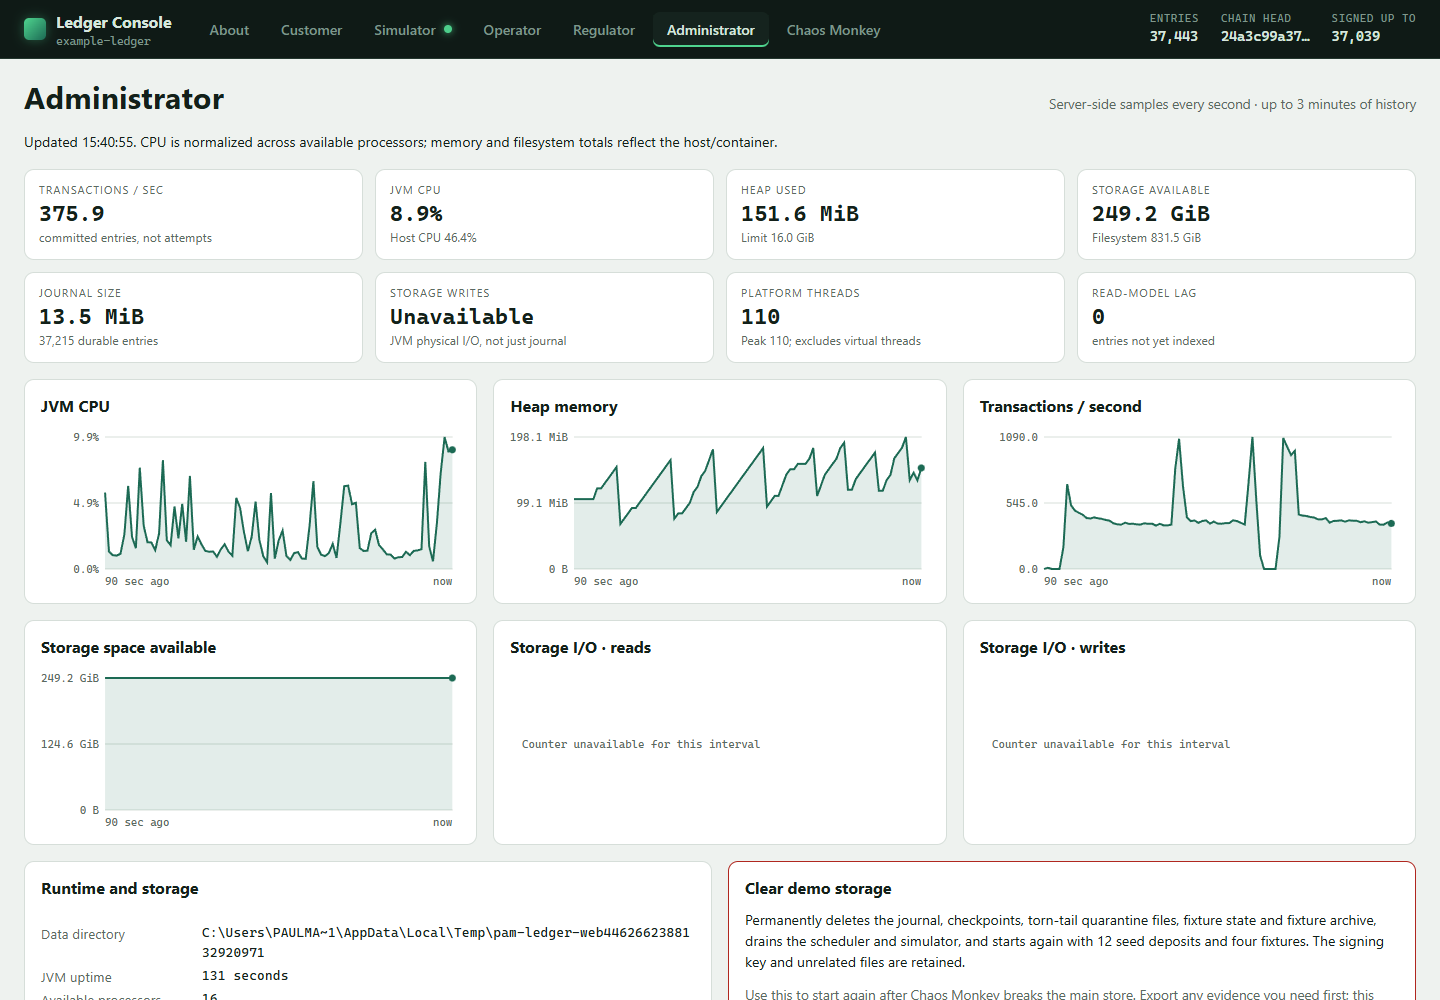
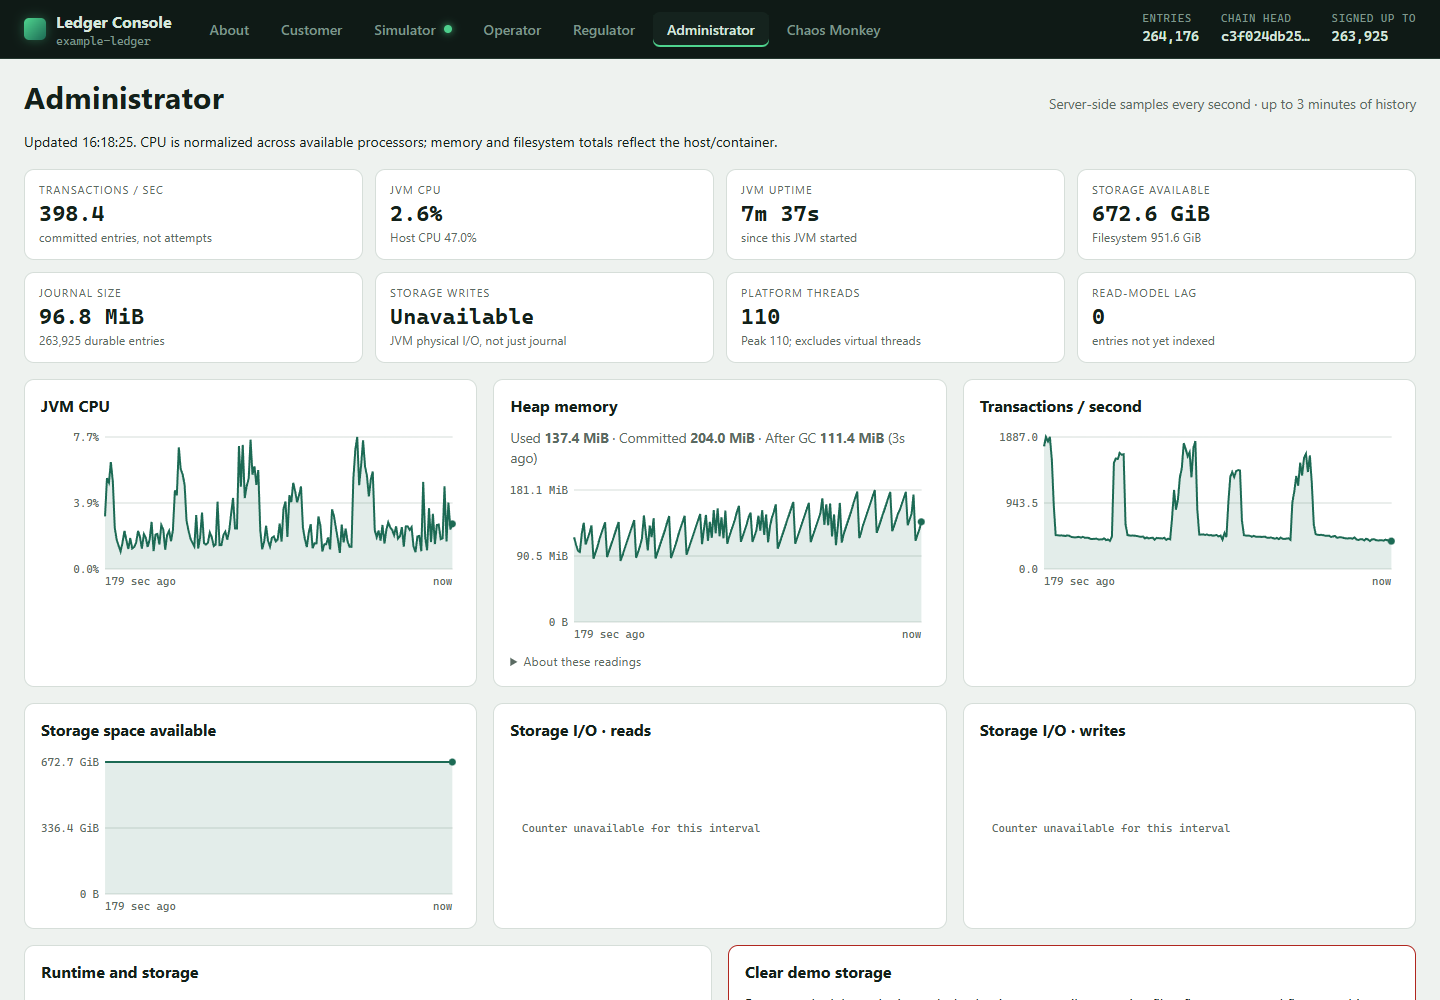
Clarify heap telemetry and format JVM uptime
Distinguish used and committed heap from the latest completed GC snapshot without forcing collections. Keep all heap readings within one existing chart, preserve the eight-tile dashboard and display uptime to the second in readable units. Update regressions, guide, deployment notes and the Administrator screenshot.

diff --git a/src/main/kotlin/com/pam/ledger/web/Performance.kt b/src/main/kotlin/com/pam/ledger/web/Performance.kt
@@ -1,20 +1,30 @@
 package com.pam.ledger.web
 
 import com.pam.ledger.Ledger
+import com.sun.management.GarbageCollectorMXBean
 import com.sun.management.OperatingSystemMXBean
 import java.lang.management.ManagementFactory
+import java.lang.management.MemoryType
+import java.lang.management.MemoryUsage
 import java.nio.file.Files
 import java.nio.file.Path
 import java.util.concurrent.Executors
 import java.util.concurrent.TimeUnit
 
+internal fun heapUsedAfterGc(usages: Map<String, MemoryUsage>, heapPools: Set<String>): Long? =
+    if (heapPools.isEmpty() || !usages.keys.containsAll(heapPools)) null
+    else heapPools.sumOf { usages.getValue(it).used }
+
 /** Read-only host/JVM telemetry. Unsupported platform counters are null, never invented zeros. */
 class Performance(private val ledger: Ledger, private val readModel: ReadModel, private val directory: Path) : AutoCloseable {
+    private data class HeapCollection(val used: Long, val endTime: Long, val collector: String)
     private val os = ManagementFactory.getOperatingSystemMXBean()
     private val memory = ManagementFactory.getMemoryMXBean()
     private val threads = ManagementFactory.getThreadMXBean()
     private val runtime = ManagementFactory.getRuntimeMXBean()
     private val collectors = ManagementFactory.getGarbageCollectorMXBeans()
+    private val heapPools = ManagementFactory.getMemoryPoolMXBeans()
+        .filter { it.type == MemoryType.HEAP }.map { it.name }.toSet()
     private val points = ArrayDeque<Map<String, Any?>>()
     private val sampler = Executors.newSingleThreadScheduledExecutor { r ->
         Thread(r, "administrator-stats").apply { isDaemon = true }
@@ -61,6 +71,13 @@ class Performance(private val ledger: Ledger, private val readModel: ReadModel, 
         }
         val bean = os as? OperatingSystemMXBean
         val heap = memory.heapMemoryUsage
+        val lastGc = collectors.mapNotNull { collector ->
+            (collector as? GarbageCollectorMXBean)?.lastGcInfo?.let { collector.name to it }
+        }.maxByOrNull { it.second.endTime }
+        val afterGc = lastGc?.let { (collector, info) ->
+            heapUsedAfterGc(info.memoryUsageAfterGc, heapPools)?.let { HeapCollection(it, info.endTime, collector) }
+        }
+        val uptime = runtime.uptime
         val store = Files.getFileStore(directory)
         val journalBytes = listOf(Ledger.ENTRIES_FILE, Ledger.CHECKPOINTS_FILE).sumOf {
             Files.size(directory.resolve(it))
@@ -72,6 +89,9 @@ class Performance(private val ledger: Ledger, private val readModel: ReadModel, 
             "systemCpu" to bean?.cpuLoad?.takeIf { it >= 0 }?.times(100),
             "heapUsed" to heap.used, "heapCommitted" to heap.committed,
             "heapMax" to heap.max.takeIf { it >= 0 },
+            "heapAfterGc" to afterGc?.used,
+            "heapAfterGcAgeMillis" to afterGc?.let { uptime - it.endTime },
+            "heapAfterGcCollector" to afterGc?.collector,
             "nonHeapUsed" to memory.nonHeapMemoryUsage.used,
             "systemMemoryTotal" to bean?.totalMemorySize?.takeIf { it >= 0 },
             "systemMemoryFree" to bean?.freeMemorySize?.takeIf { it >= 0 },
@@ -81,7 +101,7 @@ class Performance(private val ledger: Ledger, private val readModel: ReadModel, 
             "threads" to threads.threadCount, "peakThreads" to threads.peakThreadCount,
             "gcCount" to collectors.map { it.collectionCount }.takeIf { counts -> counts.all { it >= 0 } }?.sum(),
             "gcMillis" to collectors.map { it.collectionTime }.takeIf { times -> times.all { it >= 0 } }?.sum(),
-            "uptimeMillis" to runtime.uptime, "processors" to os.availableProcessors,
+            "uptimeMillis" to uptime, "processors" to os.availableProcessors,
             "loadAverage" to os.systemLoadAverage.takeIf { it >= 0 },
             "readModelLag" to (entries - readModel.totals().entries).coerceAtLeast(0),
         )

diff --git a/src/main/resources/web/app.js b/src/main/resources/web/app.js
@@ -1289,6 +1289,17 @@ const bytesText = value => {
   return `${n.toFixed(unit ? 1 : 0)} ${units[unit]}`;
 };
 const percentText = value => value == null ? "Unavailable" : `${value.toFixed(1)}%`;
+function durationText(value) {
+  if (value == null) return "Unavailable";
+  const seconds = Math.floor(value / 1000), minutes = Math.floor(seconds / 60) % 60;
+  const hours = Math.floor(seconds / 3600) % 24, days = Math.floor(seconds / 86400);
+  return [
+    days ? `${days}d` : null,
+    days || hours ? `${hours}h` : null,
+    days || hours || minutes ? `${minutes}m` : null,
+    `${seconds % 60}s`,
+  ].filter(part => part != null).join(" ");
+}
 let stopAdmin = null;
 async function refreshAdmin() {
   try {
@@ -1311,7 +1322,7 @@ async function refreshAdmin() {
     $("adminKpis").innerHTML = [
       kpi("Transactions / sec", last.tps.toFixed(1), "committed entries, not attempts"),
       kpi("JVM CPU", percentText(last.processCpu), `Host CPU ${percentText(last.systemCpu)}`),
-      kpi("Heap used", bytesText(last.heapUsed), `Limit ${bytesText(last.heapMax)}`),
+      kpi("JVM uptime", durationText(last.uptimeMillis), "since this JVM started"),
       kpi("Storage available", bytesText(last.storageFree), `Filesystem ${bytesText(last.storageTotal)}`),
       kpi("Journal size", bytesText(last.journalBytes), `${int.format(last.entries)} durable entries`),
       kpi("Storage writes", last.writeBytesPerSec == null ? "Unavailable" : bytesText(last.writeBytesPerSec) + "/s", "JVM physical I/O, not just journal"),
@@ -1331,6 +1342,13 @@ async function refreshAdmin() {
     };
     chart("adminCpu", "processCpu", percentText);
     chart("adminHeap", "heapUsed", bytesText);
+    $("adminHeapSummary").innerHTML =
+      `Used <b>${esc(bytesText(last.heapUsed))}</b> · Committed <b>${esc(bytesText(last.heapCommitted))}</b> · ` +
+      `After GC <b>${esc(bytesText(last.heapAfterGc))}</b>` +
+      (last.heapAfterGc == null ? "" : ` (${esc(durationText(last.heapAfterGcAgeMillis))} ago)`);
+    $("adminHeapGc").textContent = last.heapAfterGc == null ? "No completed GC measurement available." :
+      `${last.heapAfterGcCollector} · ${durationText(last.heapAfterGcAgeMillis)} ago`;
+    $("adminHeapLimit").textContent = `Heap limit: ${bytesText(last.heapMax)}.`;
     chart("adminTps", "tps", n => n.toFixed(1));
     chart("adminStorage", "storageFree", bytesText);
     chart("adminRead", "readBytesPerSec", n => bytesText(n) + "/s");
@@ -1338,11 +1356,9 @@ async function refreshAdmin() {
     const detail = (name, value) => `<dt>${esc(name)}</dt><dd>${esc(value)}</dd>`;
     $("adminDetails").innerHTML = [
       detail("Data directory", data.directory),
-      detail("JVM uptime", `${Math.floor(last.uptimeMillis / 1000)} seconds`),
       detail("Available processors", last.processors),
       detail("Host load average", last.loadAverage == null ? "Unavailable" : last.loadAverage.toFixed(2)),
       detail("Host memory free / total", `${bytesText(last.systemMemoryFree)} / ${bytesText(last.systemMemoryTotal)}`),
-      detail("Heap committed", bytesText(last.heapCommitted)),
       detail("Non-heap memory", bytesText(last.nonHeapUsed)),
       detail("Garbage collections", `${last.gcCount ?? "Unavailable"} / ${last.gcMillis ?? "Unavailable"} ms cumulative collection time`),
     ].join("");

diff --git a/src/test/kotlin/com/pam/ledger/WebAppTest.kt b/src/test/kotlin/com/pam/ledger/WebAppTest.kt
@@ -581,12 +581,25 @@ class WebAppTest {
         val (status, body) = response
         assertEquals(200, status, body)
         assertEquals(expectedEntries, entries.findAll(body).last().groupValues[1].toLong(), "no fresh telemetry sample: $body")
-        listOf("processCpu", "systemCpu", "heapUsed", "heapMax", "storageTotal", "storageFree",
+        listOf("processCpu", "systemCpu", "heapUsed", "heapCommitted", "heapMax",
+            "heapAfterGc", "heapAfterGcAgeMillis", "heapAfterGcCollector", "uptimeMillis", "storageTotal", "storageFree",
             "journalBytes", "readBytesPerSec", "writeBytesPerSec", "threads", "gcMillis", "readModelLag").forEach {
             assertTrue(body.contains("\"$it\":"), "missing $it: $body")
         }
         val heap = Regex("\"heapUsed\":(\\d+)").findAll(body).last().groupValues[1].toLong()
         assertTrue(heap > 0)
+        val afterGc = Regex("\"heapAfterGc\":(null|\\d+),\"heapAfterGcAgeMillis\":(null|\\d+),\"heapAfterGcCollector\":(null|\"[^\"]+\")")
+            .findAll(body).toList()
+        assertEquals(entries.findAll(body).count(), afterGc.size, "each sample needs consistent post-GC fields: $body")
+        afterGc.forEach { sample ->
+            if (sample.groupValues[1] == "null") {
+                assertEquals("null", sample.groupValues[2])
+                assertEquals("null", sample.groupValues[3])
+            } else {
+                assertTrue(sample.groupValues[2].toLong() >= 0)
+                assertTrue(sample.groupValues[3] != "null")
+            }
+        }
         val disk = Regex("\"journalBytes\":(\\d+)").findAll(body).last().groupValues[1].toLong()
         assertEquals(Files.size(app.directory.resolve(Ledger.ENTRIES_FILE)) +
             Files.size(app.directory.resolve(Ledger.CHECKPOINTS_FILE)), disk)

diff --git a/src/main/resources/web/index.html b/src/main/resources/web/index.html
@@ -281,7 +281,7 @@
   <div class="kpis" id="adminKpis"></div>
   <div class="grid3" id="adminCharts">
     <div class="panel chart"><h2>JVM CPU</h2><svg id="adminCpu" role="img" aria-label="JVM CPU percentage over time"></svg></div>
-    <div class="panel chart"><h2>Heap memory</h2><svg id="adminHeap" role="img" aria-label="Used heap bytes over time"></svg></div>
+    <div class="panel chart"><h2>Heap memory</h2><p class="hint" id="adminHeapSummary"></p><svg id="adminHeap" role="img" aria-label="Used heap bytes over time, including objects awaiting garbage collection"></svg><details class="heap-help"><summary>About these readings</summary><p class="hint">The chart shows used heap, including uncollected garbage. Committed is capacity held by the JVM, not live objects or total container memory. After GC is occupancy at the last completed collection; young collections can leave old-generation garbage. Measurements never trigger GC.</p><p class="hint" id="adminHeapGc"></p><p class="hint" id="adminHeapLimit"></p></details></div>
     <div class="panel chart"><h2>Transactions / second</h2><svg id="adminTps" role="img" aria-label="Durably committed transactions per second"></svg></div>
     <div class="panel chart"><h2>Storage space available</h2><svg id="adminStorage" role="img" aria-label="Filesystem available bytes over time"></svg></div>
     <div class="panel chart"><h2>Storage I/O · reads</h2><svg id="adminRead" role="img" aria-label="Process physical storage read bytes per second"></svg></div>

diff --git a/src/main/resources/web/app.css b/src/main/resources/web/app.css
@@ -138,6 +138,9 @@ button:disabled { opacity: .45; cursor: default; }
 .kpi span { font-size: .7rem; text-transform: uppercase; letter-spacing: .08em; color: var(--muted); }
 .kpi b { font: 650 1.4rem var(--f-mono); font-variant-numeric: tabular-nums; }
 .kpi small { color: var(--muted); font-size: .76rem; }
+#adminKpis .kpi { min-width: 0; }
+.heap-help { font-size: .78rem; color: var(--muted); }
+.heap-help summary { cursor: pointer; }
 #view-operator .kpi { min-width: 0; gap: 6px; }
 #view-operator .kpi b { font-family: var(--f-ui); font-size: clamp(1.4rem, 2.4vw, 2rem); line-height: 1.15; overflow-wrap: anywhere; letter-spacing: -.035em; }
 .fixture-history summary { cursor: pointer; font-weight: 600; padding: 8px 0; }
@@ -328,6 +331,11 @@ button.danger:hover { background: color-mix(in srgb, var(--bad) 8%, var(--panel)
   .tip { display: none; }
 }
 @media (max-width: 600px) {
+  #adminKpis { gap: 8px; }
+  #adminKpis .kpi { padding: 12px; }
+  #adminKpis .kpi b { font-size: clamp(1rem, 4vw, 1.4rem); overflow-wrap: anywhere; }
+  #adminDetails { grid-template-columns: minmax(0, 1fr); gap: 4px; }
+  #adminDetails dd { word-break: normal; overflow-wrap: anywhere; margin-bottom: 8px; }
   #view-operator .operator-fixtures { grid-template-columns: 1fr; }
   #view-operator .kpis { gap: 8px; }
   #view-operator .kpi { padding: 12px; }

diff --git a/src/test/kotlin/com/pam/ledger/PerformanceTest.kt b/src/test/kotlin/com/pam/ledger/PerformanceTest.kt
@@ -1,0 +1,29 @@
+package com.pam.ledger
+
+import com.pam.ledger.web.heapUsedAfterGc
+import java.lang.management.MemoryUsage
+import kotlin.test.Test
+import kotlin.test.assertEquals
+import kotlin.test.assertNull
+
+class PerformanceTest {
+    private fun usage(used: Long) = MemoryUsage(0, used, used, -1)
+
+    @Test fun `post-GC occupancy sums every heap pool and excludes non-heap pools`() {
+        val pools = mapOf(
+            "eden" to usage(10), "survivor" to usage(20), "old" to usage(300),
+            "metaspace" to usage(900), "code" to usage(800),
+        )
+        assertEquals(330L, heapUsedAfterGc(pools, setOf("eden", "survivor", "old")))
+    }
+
+    @Test fun `missing heap pools are unavailable rather than a partial or zero measurement`() {
+        assertNull(heapUsedAfterGc(mapOf("eden" to usage(10)), setOf("eden", "old")))
+        assertNull(heapUsedAfterGc(emptyMap(), setOf("old")))
+        assertNull(heapUsedAfterGc(mapOf("old" to usage(10)), emptySet()))
+    }
+
+    @Test fun `a measured empty heap is distinct from an unavailable measurement`() {
+        assertEquals(0L, heapUsedAfterGc(mapOf("old" to usage(0)), setOf("old")))
+    }
+}

diff --git a/docs/index.html b/docs/index.html
@@ -570,7 +570,7 @@ footer{margin-top:48px;color:var(--muted);font-size:.84rem}
   <div class="shots">
     <figure class="shot">
       <a href="screenshots/administrator.png"><img src="screenshots/administrator.png" alt="Administrator view: CPU, memory, storage, I/O and transaction throughput charts" loading="lazy"></a>
-      <figcaption><b>Administrator.</b> Live server performance and a protected demo reset.</figcaption>
+      <figcaption><b>Administrator.</b> Live server performance with separate used, committed and after-GC heap readings, collection age, uptime to the second, and a protected demo reset.</figcaption>
     </figure>
     <figure class="shot">
       <a href="screenshots/chaos.png"><img src="screenshots/chaos.png" alt="Chaos Monkey view: live transaction races, main-store faults and recovery results" loading="lazy"></a>

diff --git a/docs/readme.src.html b/docs/readme.src.html
@@ -558,7 +558,7 @@ footer{margin-top:48px;color:var(--muted);font-size:.84rem}
   <div class="shots">
     <figure class="shot">
       <a href="screenshots/administrator.png"><img src="screenshots/administrator.png" alt="Administrator view: CPU, memory, storage, I/O and transaction throughput charts" loading="lazy"></a>
-      <figcaption><b>Administrator.</b> Live server performance and a protected demo reset.</figcaption>
+      <figcaption><b>Administrator.</b> Live server performance with separate used, committed and after-GC heap readings, collection age, uptime to the second, and a protected demo reset.</figcaption>
     </figure>
     <figure class="shot">
       <a href="screenshots/chaos.png"><img src="screenshots/chaos.png" alt="Chaos Monkey view: live transaction races, main-store faults and recovery results" loading="lazy"></a>

diff --git a/src/main/resources/web/about.html b/src/main/resources/web/about.html
@@ -570,7 +570,7 @@ footer{margin-top:48px;color:var(--muted);font-size:.84rem}
   <div class="shots">
     <figure class="shot">
       <a href="screenshots/administrator.png"><img src="screenshots/administrator.png" alt="Administrator view: CPU, memory, storage, I/O and transaction throughput charts" loading="lazy"></a>
-      <figcaption><b>Administrator.</b> Live server performance and a protected demo reset.</figcaption>
+      <figcaption><b>Administrator.</b> Live server performance with separate used, committed and after-GC heap readings, collection age, uptime to the second, and a protected demo reset.</figcaption>
     </figure>
     <figure class="shot">
       <a href="screenshots/chaos.png"><img src="screenshots/chaos.png" alt="Chaos Monkey view: live transaction races, main-store faults and recovery results" loading="lazy"></a>

diff --git a/scripts/capture-screenshots.py b/scripts/capture-screenshots.py
@@ -13,6 +13,7 @@ Use --regulator-only to refresh the reporting screenshots without exercising Cha
 Use --about-only to check the default About view and its embedded interactive guide.
 Use --operator-only to refresh the operator view without exercising Chaos Monkey.
 Use --customer-only to check narrow Customer layouts and refresh their screenshots.
+Use --administrator-only to refresh telemetry and check narrow Administrator layouts.
 
 It drives the real UI: starts the simulator with 500 automated customers, lets traffic
 build up, then photographs each persona's view into docs/screenshots/. WARNING: the
@@ -27,7 +28,7 @@ from playwright.async_api import async_playwright
 ROOT = pathlib.Path(__file__).resolve().parent.parent
 
 
-async def main(url: str, out: pathlib.Path, chrome: str | None, warmup: int, regulator_only: bool = False, about_only: bool = False, operator_only: bool = False, customer_only: bool = False) -> None:
+async def main(url: str, out: pathlib.Path, chrome: str | None, warmup: int, regulator_only: bool = False, about_only: bool = False, operator_only: bool = False, customer_only: bool = False, administrator_only: bool = False) -> None:
     out.mkdir(parents=True, exist_ok=True)
     async with async_playwright() as p:
         launch = {"args": ["--no-sandbox"]}
@@ -52,6 +53,21 @@ async def main(url: str, out: pathlib.Path, chrome: str | None, warmup: int, reg
             """Just one panel, for moments that happen below the fold."""
             await page.locator(selector).screenshot(path=str(out / f"{name}.png"))
             report(name)
+
+        if administrator_only:
+            await page.goto(url + "#administrator")
+            await page.wait_for_selector("#adminKpis .kpi")
+            await page.wait_for_timeout(warmup * 1000)
+            await shot("administrator")
+            for width in [320, 390, 600, 601]:
+                await page.set_viewport_size({"width": width, "height": 1000})
+                await page.wait_for_timeout(300)
+                assert await page.evaluate("document.documentElement.scrollWidth <= innerWidth"), f"Administrator overflow at {width}px"
+                assert await page.locator("#adminHeapSummary").is_visible()
+            await browser.close()
+            if errors:
+                raise SystemExit("page errors while capturing:\n  " + "\n  ".join(errors))
+            return
 
         if not regulator_only and not operator_only and not customer_only:
             await page.goto(url)
@@ -210,5 +226,6 @@ if __name__ == "__main__":
     scope.add_argument("--about-only", action="store_true", help="check and capture About and its embedded guide only")
     scope.add_argument("--operator-only", action="store_true", help="capture the operator view only; skip destructive Chaos Monkey scenarios")
     scope.add_argument("--customer-only", action="store_true", help="check Customer mobile layouts and capture its views only; skip destructive Chaos Monkey scenarios")
+    scope.add_argument("--administrator-only", action="store_true", help="check and capture Administrator telemetry only; skip destructive Chaos Monkey scenarios")
     a = ap.parse_args()
-    asyncio.run(main(a.url.rstrip("/") + "/", pathlib.Path(a.out).resolve(), a.chrome, a.warmup, a.regulator_only, a.about_only, a.operator_only, a.customer_only))
+    asyncio.run(main(a.url.rstrip("/") + "/", pathlib.Path(a.out).resolve(), a.chrome, a.warmup, a.regulator_only, a.about_only, a.operator_only, a.customer_only, a.administrator_only))

diff --git a/deploy/README.md b/deploy/README.md
@@ -125,9 +125,10 @@ later application deployments use the same resources.
   The local Gradle `web` task uses the same heap maximum; leave additional host
   memory for Gradle and the operating system. Ensure the AKS node has room for
   the larger request plus the HTTPS sidecar before deploying.
-  This is headroom, not a bounded-storage design: committed entries, canonical
-  bytes, idempotency keys and dashboard indexes remain resident until reset.
-  The disk high-water mark is not a heap guard. Independent audits retain only
+  This is capacity headroom, not a target live-set size. History and derived
+  indexes are on disk, with bounded caches and a shared run-filter budget;
+  balances and open bets still occupy heap. The disk high-water mark is not a
+  heap guard. Independent audits retain only
   historical hashes, exact account state and idempotency keys, rather than a
   second full decoded journal; audit and snapshot-tamper requests run one at a
   time per app. Large reports and tamper copies still need extra working memory.
@@ -160,20 +161,22 @@ check data compatibility first.
 
 `Java heap space` followed by `LedgerFailedException` means the writer has
 failed-stopped, not that settlement may safely retry writes. Record entry count,
-heap maximum/usage, GC time and container memory from Administrator telemetry.
-At a fixed entry count, rising occupancy between collections can be temporary
-garbage; post-GC live-object counts distinguish this from retained history.
-The live engine keeps every committed entry, and fixture archiving bounds the
-active metadata file, not the heap. A restart must replay and verify the existing
-disk and needs enough heap for that history. Deploy the larger memory budget
-before restarting a full ledger; do not delete journals or signing keys to
-recover. The owner-confirmed Administrator reset remains a demo-only option.
-For a longer-lived service, use an indexed on-disk entry/idempotency store and
-Merkle tiles, or enforce a demo admission budget with reserved settlement/audit
-headroom; neither is implemented by increasing the heap.
+heap used/committed/maximum, after-GC occupancy and collection age, GC time and
+container memory from Administrator telemetry. **Used** includes objects waiting
+for collection. **Committed** is capacity held by the JVM, not live data or total
+container memory; it can remain high after objects are collected. **After GC**
+sums heap pools in the latest completed collector snapshot (excluding non-heap
+pools). Its age and collector name matter: a young collection can leave old-generation
+garbage, so this is not necessarily the full live set. Missing or unsupported
+measurements show as unavailable, not zero. Telemetry never triggers GC or changes
+JVM settings. JVM uptime and collection age are displayed in days/hours/minutes/seconds.
+A restart must replay and verify the existing disk and needs working memory for
+that replay. Do not delete journals or signing keys to recover. The owner-confirmed
+Administrator reset remains a demo-only option.
 
-Resident entries share repeated strings through a ledger-scoped pool capped at
-65,536 strings of at most 256 characters. Only recovery and the single writer
+Before the on-disk history migration, resident entries shared repeated strings
+through a ledger-scoped pool capped at 65,536 strings of at most 256 characters.
+Only recovery and the single writer
 use it; unique business keys and reference values are not pooled. Canonical bytes
 and replay rules are unchanged. Player histories use primitive sequence chunks.
 The read model retains complete placement/settlement references but caches decoded
@@ -185,8 +188,9 @@ their drill-down sequences use primitive snapshots. These reduce retention and
 allocation, not the growth of the authoritative ledger. All reports still use a
 single signed prefix and exact amounts, including cross-period settlements.
 
-A local JDK 27 comparison using 300,000 deterministic deposit/place/loss entries
-across 500 players reduced post-GC ledger/read-model heap from 479.6 MiB to
+A historical local JDK 27 comparison of that resident implementation using 300,000
+deterministic deposit/place/loss entries across 500 players reduced post-GC
+ledger/read-model heap from 479.6 MiB to
 349.8 MiB (27.1%) with these optimizations. Report allocation fell 35.2%; the
 chain head, Merkle root and serialized financial/customer/fixture report sections
 were identical. Savings depend on the workload and do not make history bounded.
